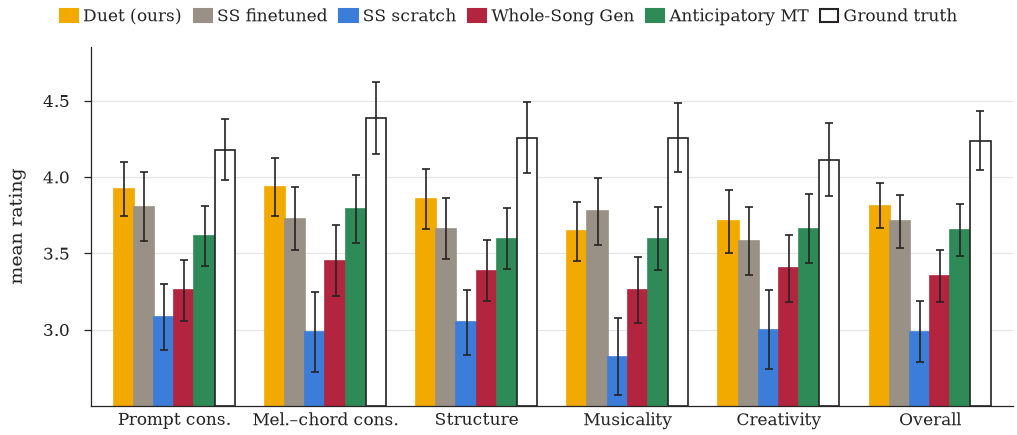
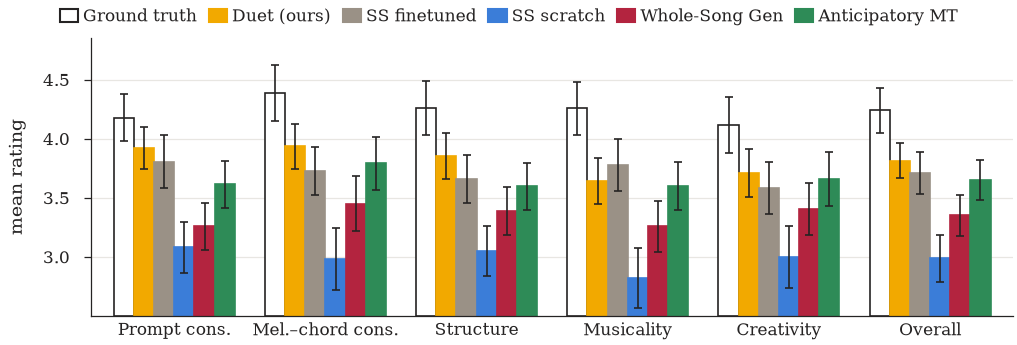
Subjective bar chart: ground truth first, shorter figure
Bars and legend now start with ground truth as the reference, then
ours, then the baselines; default height 1.15 in.

Claude-Session: https://claude.ai/code/session_012w7PFbJyWP4meVE3CJpfno

diff --git a/midi_yinyang/figures/plot_subjective_bars.py b/midi_yinyang/figures/plot_subjective_bars.py
@@ -31,8 +31,9 @@ from plot_e1_box import INK, GRID, SURFACE, FS_TICK, FS_LABEL, FS_LEGEND  # noqa
 from plot_subjective_compact import SYS, colour, within_ci, ROW_AXES, ROWS  # noqa: E402
 from plot_subjective_spider import SYSTEM_COLOR  # noqa: E402
 
-# bars left to right within a group, and the legend order
-ORDER = ['Duet (alt commit)', 'S-finetune', 'S-scratch', 'Whole-song', 'AMT', 'GT']
+# bars left to right within a group, and the legend order: ground truth
+# first as the reference, then ours, then the baselines
+ORDER = ['GT', 'Duet (alt commit)', 'S-finetune', 'S-scratch', 'Whole-song', 'AMT']
 
 
 def main():
@@ -42,7 +43,7 @@ def main():
     ap.add_argument('--exclude', nargs='*', default=[])
     ap.add_argument('--drop-constant', action='store_true')
     ap.add_argument('--width', type=float, default=3.39, help='figure width in inches')
-    ap.add_argument('--height', type=float, default=1.45, help='figure height in inches')
+    ap.add_argument('--height', type=float, default=1.15, help='figure height in inches')
     ap.add_argument('--ymin', type=float, default=2.5, help='bars start here (say so in the caption)')
     ap.add_argument('--ymax', type=float, default=4.85)
     args = ap.parse_args()
